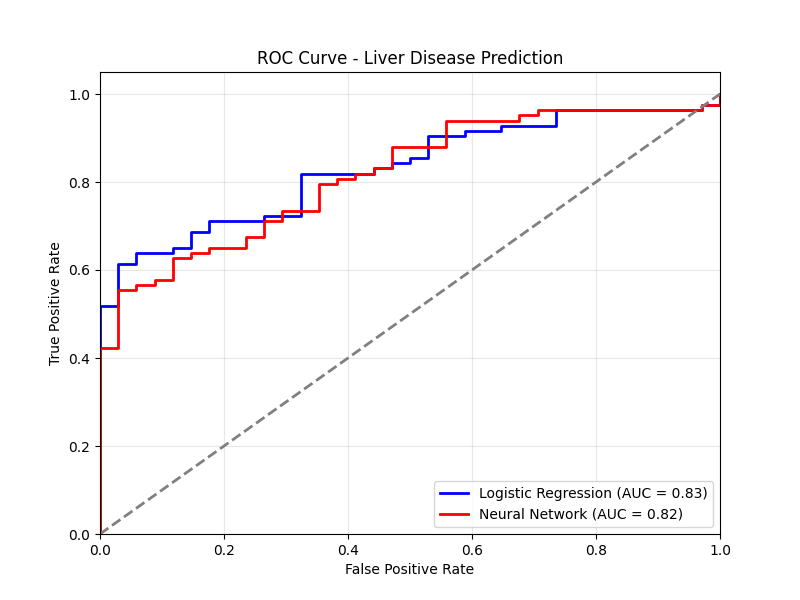
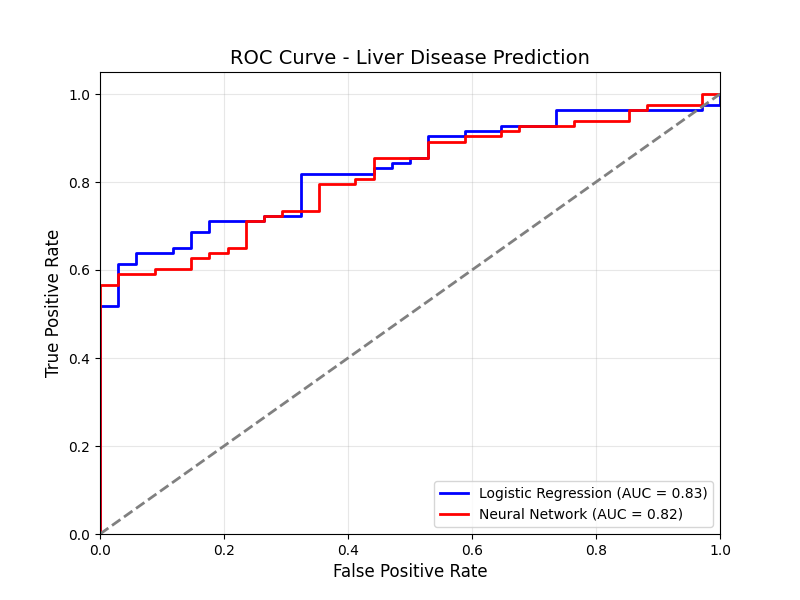
add a GUI plot to display the graph in a new window

diff --git a/liver_prediction.py b/liver_prediction.py
@@ -1,100 +1,132 @@
 import pandas as pd
+import matplotlib
+matplotlib.use('TkAgg')
 import matplotlib.pyplot as plt
+from typing import Tuple
+
 from sklearn.model_selection import train_test_split
 from sklearn.preprocessing import StandardScaler
 from sklearn.impute import SimpleImputer
 from sklearn.linear_model import LogisticRegression
 from sklearn.metrics import accuracy_score, precision_score, recall_score, roc_curve, auc
+from sklearn.pipeline import Pipeline
+from sklearn.compose import ColumnTransformer
+
 import tensorflow as tf
 from tensorflow.keras.models import Sequential
 from tensorflow.keras.layers import Dense
 
-def main():
-    # ==========================================
-    # 1. DATA ENGINEERING PIPELINE
-    # ==========================================
-    print("Loading and cleaning Indian Liver Patient data...")
-    df = pd.read_csv('indian_liver_patient.csv')
-
-    # Fix the target trap (Convert '2' for healthy into '0')
+def load_and_clean_data(filepath: str = 'indian_liver_patient.csv') -> Tuple[pd.DataFrame, pd.Series]:
+    """Loads and performs initial cleaning on the liver patient data."""
+    print(f"Loading and cleaning data from {filepath}...")
+    df = pd.read_csv(filepath)
+    
+    # Fix the target column
     df['Dataset'] = df['Dataset'].replace(2, 0)
+    
+    # Convert 'Gender' to numeric
+    df['Gender'] = df['Gender'].map({'Male': 1, 'Female': 0})
 
-    # Feature Engineering: Convert 'Gender' text to numbers
-    df = pd.get_dummies(df, drop_first=True)
+    # Separate features and target
+    X = df.drop('Dataset', axis=1)
+    y = df['Dataset']
+    
+    return X, y
 
-    # Handle Missing Values in the Albumin ratio
-    imputer = SimpleImputer(strategy='median')
-    df_cleaned = pd.DataFrame(imputer.fit_transform(df), columns=df.columns)
-
-    # Split the data into Features (X) and Target (y)
-    X = df_cleaned.drop('Dataset', axis=1)
-    y = df_cleaned['Dataset']
-    X_train, X_test, y_train, y_test = train_test_split(X, y, test_size=0.2, random_state=42, stratify=y)
-
-    # Scale the data (Crucial for Neural Networks)
-    scaler = StandardScaler()
-    X_train_scaled = scaler.fit_transform(X_train)
-    X_test_scaled = scaler.transform(X_test)
-
-    # ==========================================
-    # 2. BASELINE MODEL: LOGISTIC REGRESSION
-    # ==========================================
+def train_and_evaluate_logistic_regression(X_train, y_train, X_test, y_test):
+    """Trains and evaluates the Logistic Regression model."""
     print("Training Logistic Regression...")
     log_model = LogisticRegression(max_iter=1000)
-    log_model.fit(X_train_scaled, y_train)
-    log_preds = log_model.predict(X_test_scaled)
-    log_probs = log_model.predict_proba(X_test_scaled)[:, 1]
-
+    log_model.fit(X_train, y_train)
+    
+    preds = log_model.predict(X_test)
+    probs = log_model.predict_proba(X_test)[:, 1]
+    
     print("\n--- Logistic Regression Metrics ---")
-    print(f"Accuracy:  {accuracy_score(y_test, log_preds):.4f}")
-    print(f"Precision: {precision_score(y_test, log_preds):.4f}")
-    print(f"Recall:    {recall_score(y_test, log_preds):.4f}")
-
-    # ==========================================
-    # 3. DEEP LEARNING MODEL: NEURAL NETWORK
-    # ==========================================
+    print(f"Accuracy:  {accuracy_score(y_test, preds):.4f}")
+    print(f"Precision: {precision_score(y_test, preds):.4f}")
+    print(f"Recall:    {recall_score(y_test, preds):.4f}")
+    
+    return probs
+    
+def train_and_evaluate_nn(X_train, y_train, X_test, y_test):
+    """Trains and evaluates the Neural Network model."""
     print("\nTraining TensorFlow Neural Network...")
     nn_model = Sequential([
-        Dense(16, activation='relu', input_shape=(X_train_scaled.shape[1],)),
+        Dense(16, activation='relu', input_shape=(X_train.shape[1],)),
         Dense(8, activation='relu'),
         Dense(1, activation='sigmoid')
     ])
-
+    
     nn_model.compile(optimizer='adam', loss='binary_crossentropy', metrics=['accuracy'])
-
+    
     # Train silently (verbose=0) 
-    nn_model.fit(X_train_scaled, y_train, epochs=50, batch_size=10, verbose=0) 
-
-    nn_probs = nn_model.predict(X_test_scaled).flatten()
-    nn_preds = (nn_probs > 0.5).astype(int)
-
+    nn_model.fit(X_train, y_train, epochs=50, batch_size=10, verbose=0) 
+    
+    probs = nn_model.predict(X_test).flatten()
+    preds = (probs > 0.5).astype(int)
+    
     print("\n--- Neural Network Metrics ---")
-    print(f"Accuracy:  {accuracy_score(y_test, nn_preds):.4f}")
-    print(f"Precision: {precision_score(y_test, nn_preds):.4f}")
-    print(f"Recall:    {recall_score(y_test, nn_preds):.4f}")
-
-    # ==========================================
-    # 4. VISUALIZATION (ROC CURVE)
-    # ==========================================
+    print(f"Accuracy:  {accuracy_score(y_test, preds):.4f}")
+    print(f"Precision: {precision_score(y_test, preds):.4f}")
+    print(f"Recall:    {recall_score(y_test, preds):.4f}")
+    
+    return probs
+    
+def plot_and_save_roc_curve(y_test, log_probs, nn_probs):
+    """Calculates AUC and plots the ROC curve for both models."""
     fpr_log, tpr_log, _ = roc_curve(y_test, log_probs)
     roc_auc_log = auc(fpr_log, tpr_log)
-
+    
     fpr_nn, tpr_nn, _ = roc_curve(y_test, nn_probs)
     roc_auc_nn = auc(fpr_nn, tpr_nn)
-
+    
     plt.figure(figsize=(8, 6))
     plt.plot(fpr_log, tpr_log, color='blue', lw=2, label=f'Logistic Regression (AUC = {roc_auc_log:.2f})')
     plt.plot(fpr_nn, tpr_nn, color='red', lw=2, label=f'Neural Network (AUC = {roc_auc_nn:.2f})')
     plt.plot([0, 1], [0, 1], color='gray', lw=2, linestyle='--')
     plt.xlim([0.0, 1.0])
     plt.ylim([0.0, 1.05])
-    plt.xlabel('False Positive Rate')
-    plt.ylabel('True Positive Rate')
-    plt.title('ROC Curve - Liver Disease Prediction')
+    plt.xlabel('False Positive Rate', fontsize=12)
+    plt.ylabel('True Positive Rate', fontsize=12)
+    plt.title('ROC Curve - Liver Disease Prediction', fontsize=14)
     plt.legend(loc="lower right")
     plt.grid(alpha=0.3)
     plt.savefig('liver_roc_curve.png')
     print("\nROC curve plot has been saved to liver_roc_curve.png")
+    plt.show()
+
+def main():
+    # 1. Load Data
+    X, y = load_and_clean_data()
+
+    # 2. Split Data *before* any preprocessing to prevent data leakage
+    X_train, X_test, y_train, y_test = train_test_split(X, y, test_size=0.2, random_state=42, stratify=y)
+
+    # 3. Create a robust preprocessing pipeline using ColumnTransformer and Pipeline
+    # This encapsulates imputation and scaling to prevent errors and simplify code.
+    impute_col = ['Albumin_and_Globulin_Ratio']
+    
+    # Create a transformer that imputes the specific column and passes others through
+    imputer_transformer = ColumnTransformer(
+        transformers=[('imputer', SimpleImputer(strategy='median'), impute_col)],
+        remainder='passthrough'  # Keep all other columns
+    )
+    
+    # Create a full pipeline that first imputes, then scales all features
+    preprocessing_pipeline = Pipeline([
+        ('imputer', imputer_transformer),
+        ('scaler', StandardScaler())
+    ])
+
+    # 4. Baseline Model
+    log_probs = train_and_evaluate_logistic_regression(preprocessing_pipeline.fit_transform(X_train), y_train, preprocessing_pipeline.transform(X_test), y_test)
+
+    # 5. Deep Learning Model
+    nn_probs = train_and_evaluate_nn(preprocessing_pipeline.fit_transform(X_train), y_train, preprocessing_pipeline.transform(X_test), y_test)
+
+    # 6. Visualization
+    plot_and_save_roc_curve(y_test, log_probs, nn_probs)
 
 if __name__ == "__main__":
     main()

diff --git a/README.md b/README.md
@@ -57,6 +57,11 @@ The `liver_prediction.py` script performs the following steps:
    ```bash
    pip install -r requirements.txt
    ```
+**Note on GUI Backend:** The script will attempt to display the plot automatically. If you see a `ModuleNotFoundError: No module named 'tkinter'`, you need to install Python's GUI toolkit. On Debian/Ubuntu, you can do this with:
+   ```bash
+   sudo apt-get update
+   sudo apt-get install python3-tk
+   ```
 
 ## Usage
 
@@ -64,7 +69,7 @@ The `liver_prediction.py` script performs the following steps:
    ```bash
    python liver_prediction.py
    ```
-2. **The script will output the prediction results, and a ROC curve image `liver_roc_curve.png` will be generated.**
+2. **The script will output the prediction results, save a ROC curve image `liver_roc_curve.png`, and display the plot in a new window.**
 
 ## Contributing
 
